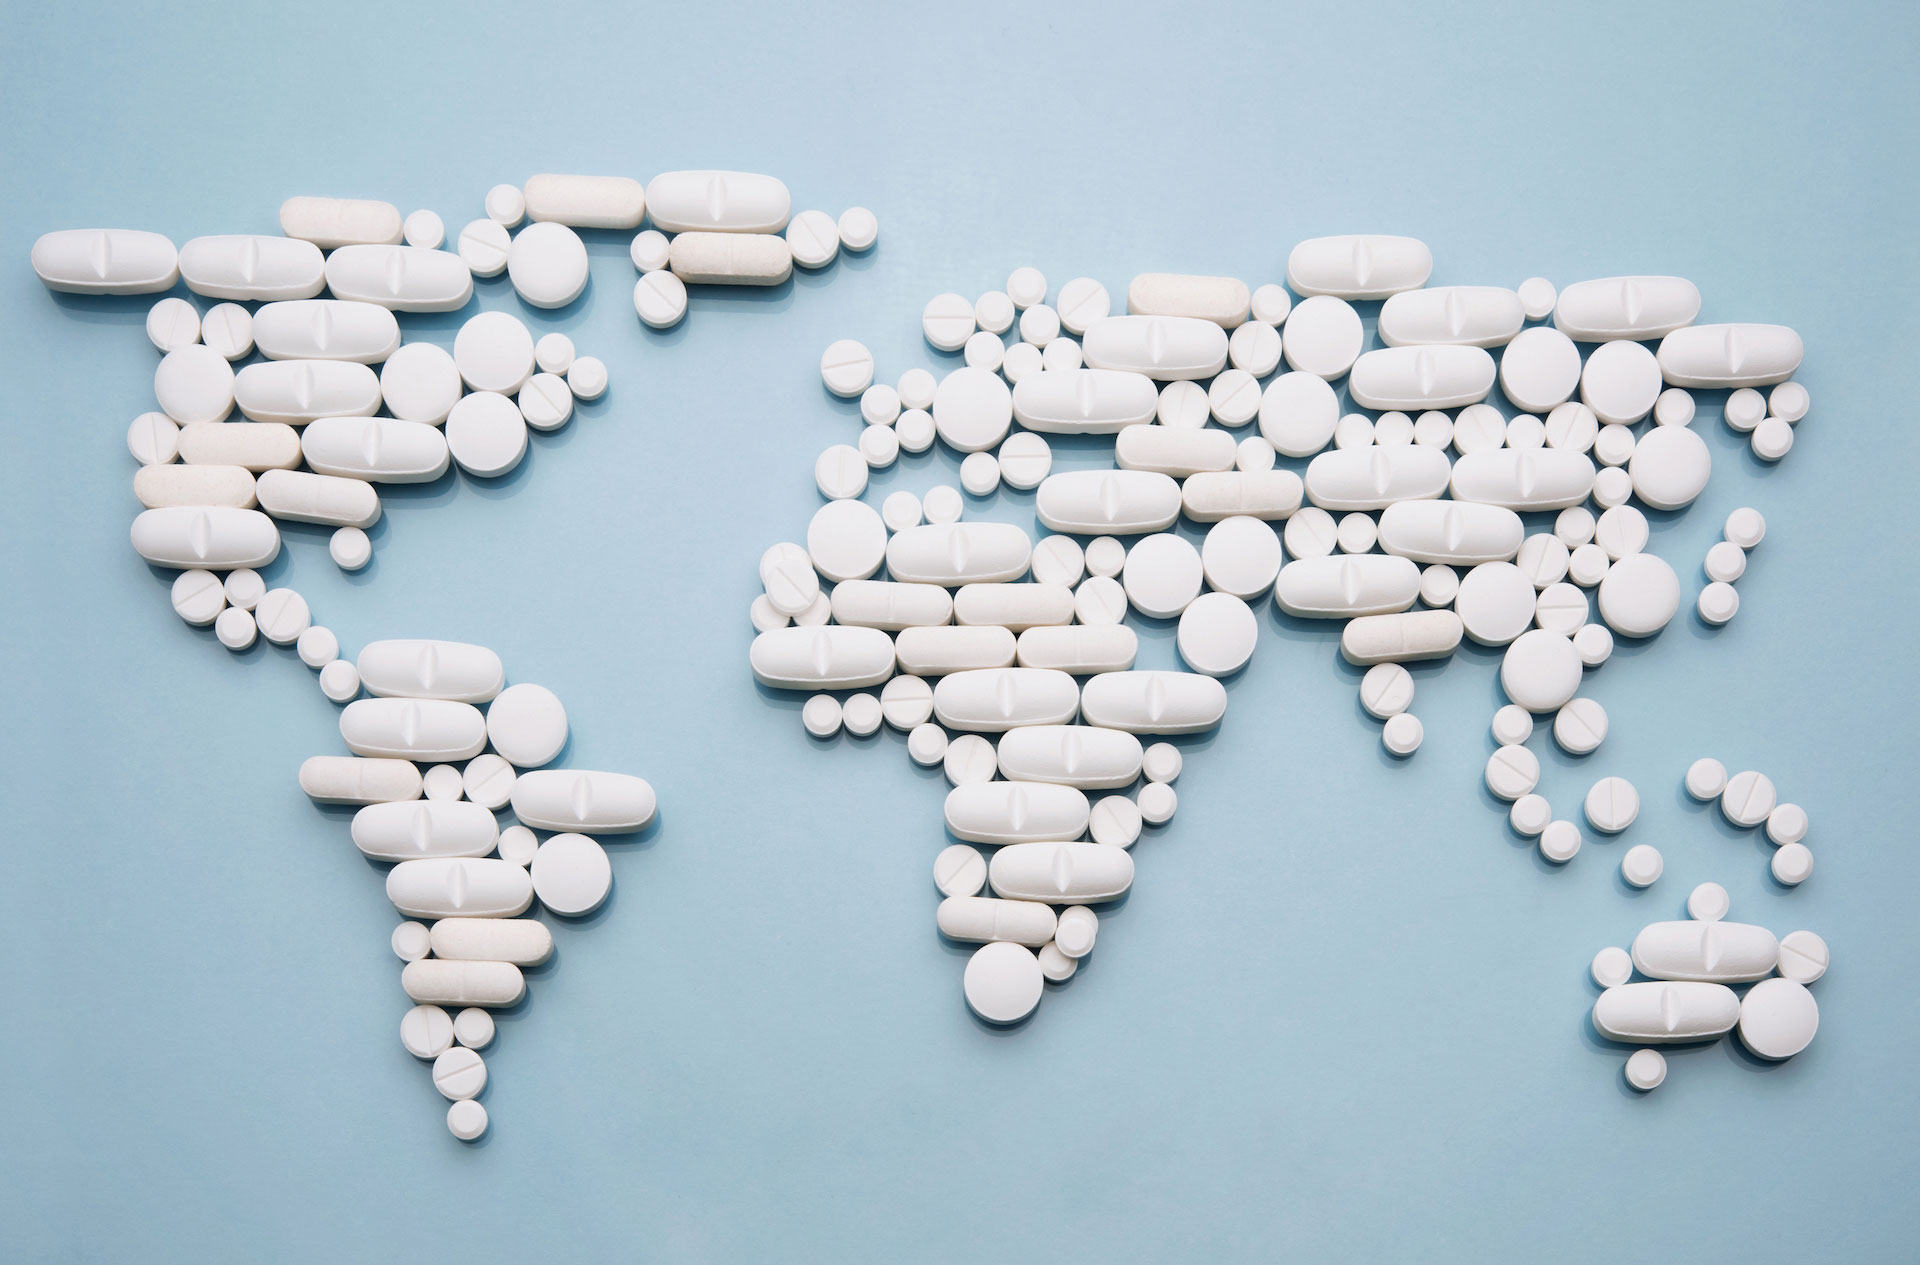
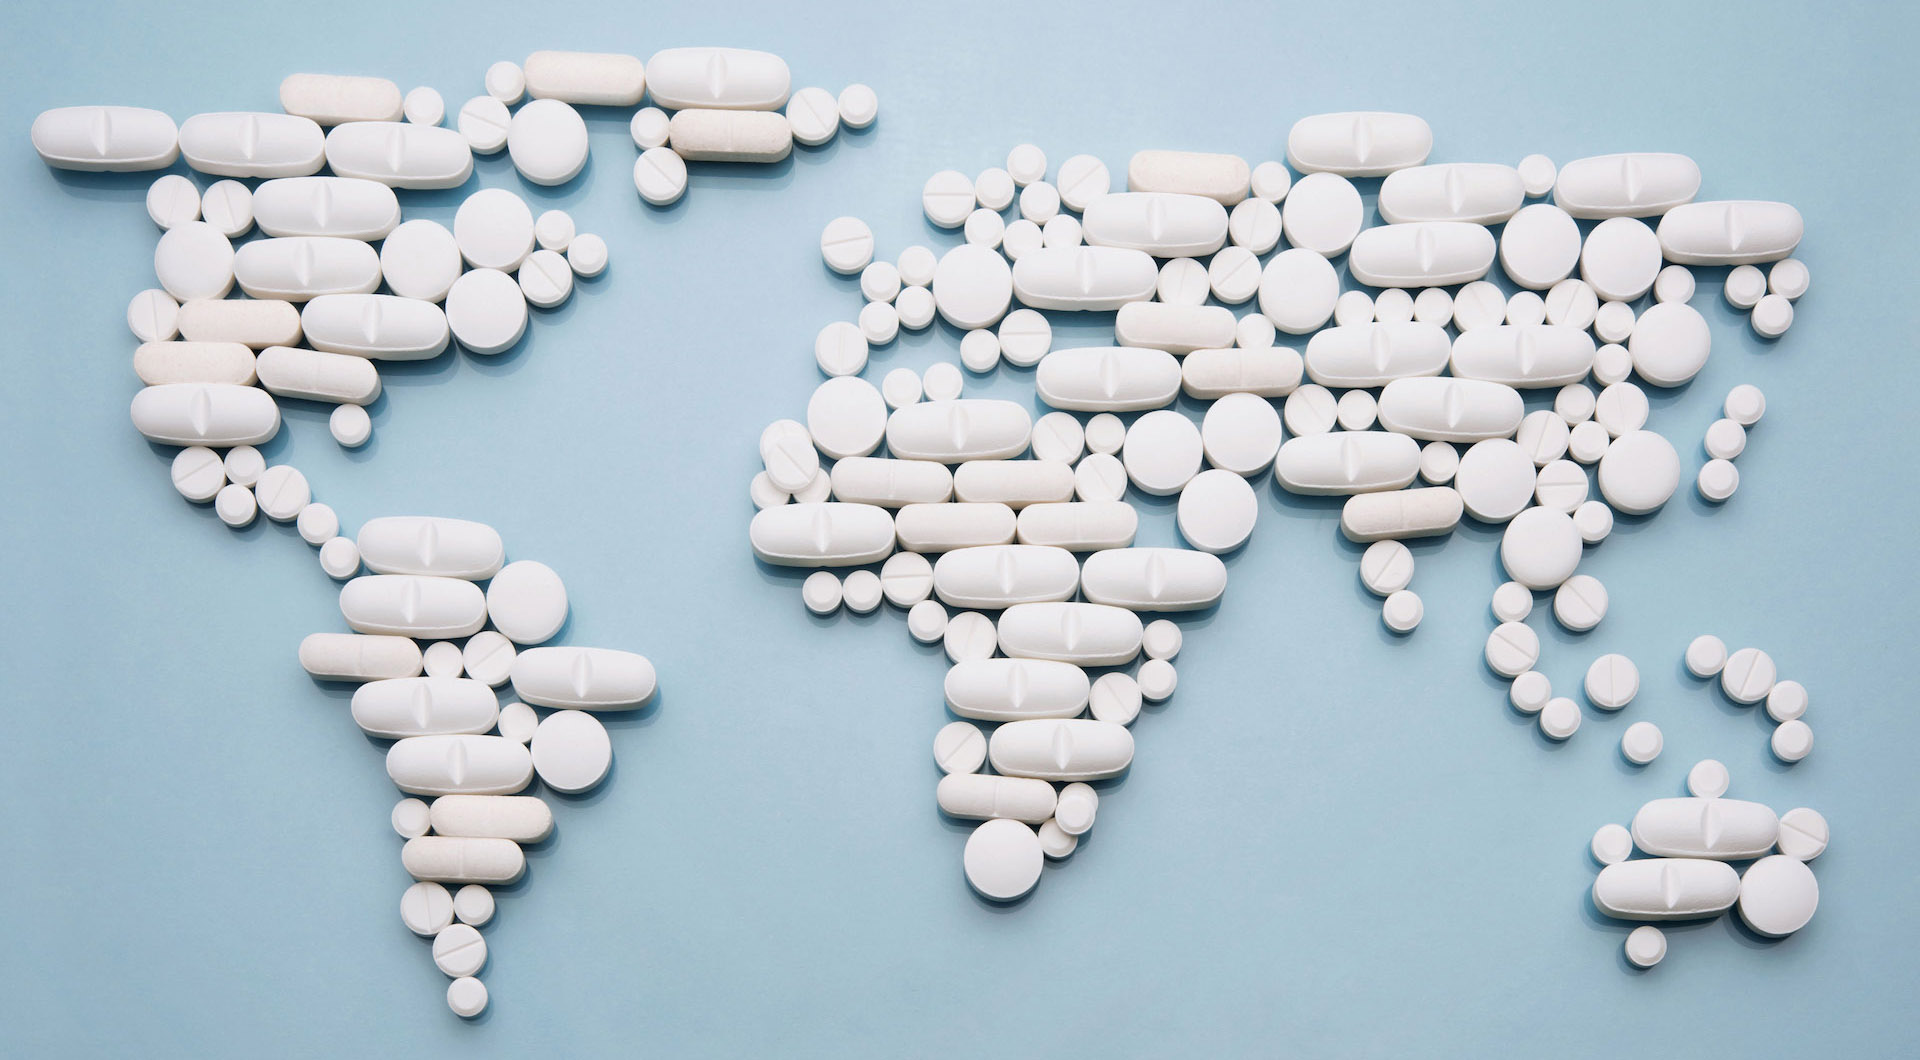
Background cover image improvements

Changed region(s): [[0.0, 0.0311, 0.9688, 0.8717], [0.75, 0.6226, 0.9688, 0.934], [0.1562, 0.5915, 0.3438, 0.9962]]

diff --git a/custom.css b/custom.css
@@ -5,19 +5,18 @@ body {
 
 .feature {
   background-image: url("images/background.jpg");
-  background-position: 0 0;
-  background-size: 100% auto;
+  background-position: center;
   background-size: cover;
 }
 
 @media (min-width: 1000px) {
   .feature > div {
-    min-height: 70vh;
+    min-height: 95vh;
   }
 }
 
 .feature > div {
-  background: rgba(255, 255, 255, 0.55);
+  background: rgba(255, 255, 255, 0.7);
 }
 
 .header {
